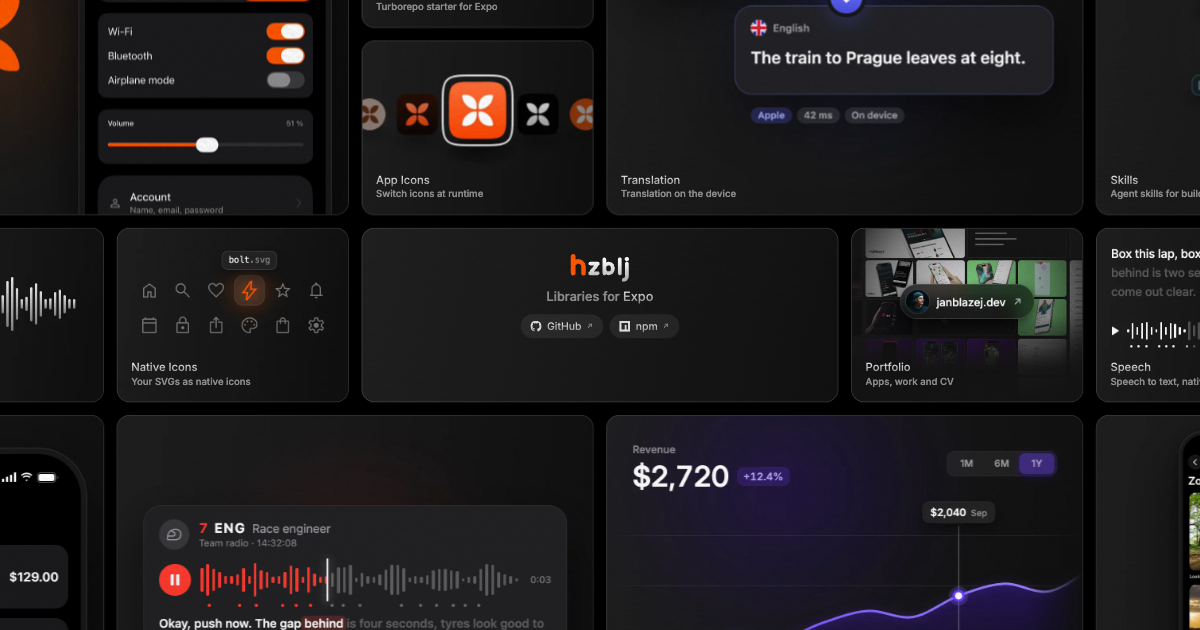
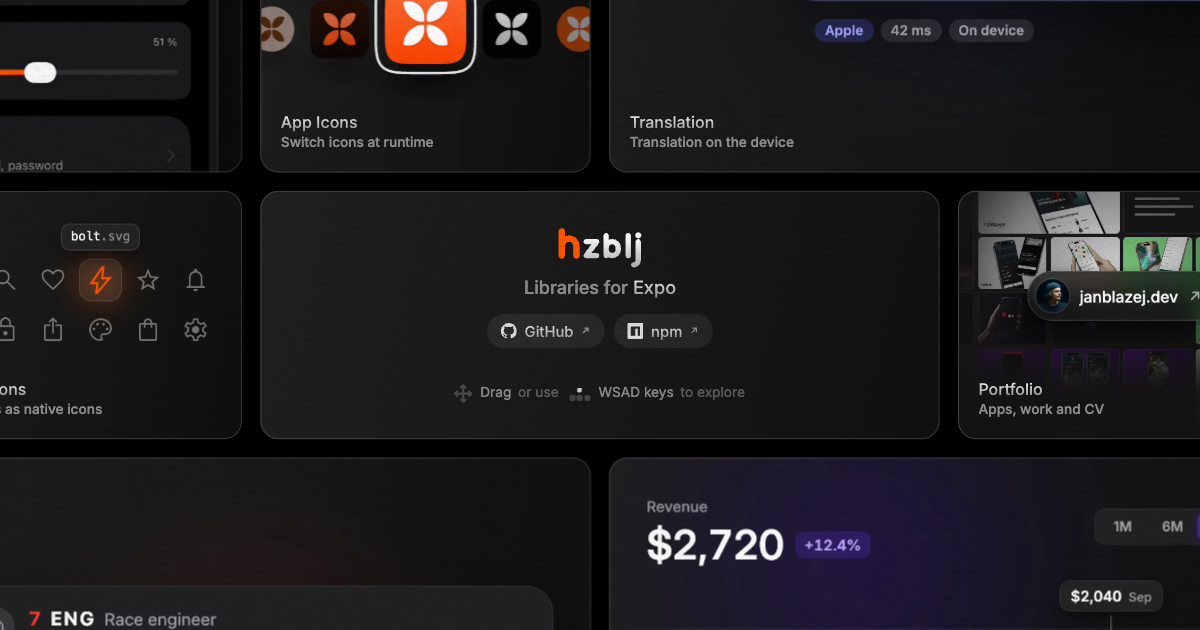
feat: The link preview held close on the profile card, as the portfolio's is, with its drag and WSAD hints

diff --git a/artwork/cards/libraries-grid.js b/artwork/cards/libraries-grid.js
@@ -56,10 +56,24 @@ const ROW = 218
 const GAP = 16
 const PADDING = 2
 
+// The site's hint row (src/scene/cards/profile/styles.ts), still: the keycaps as
+// the loop has them with W pressed.
+const KEYCAPS = [
+  {pressed: true, x: 9.5, y: 4},
+  {x: 3, y: 10.5},
+  {x: 9.5, y: 10.5},
+  {x: 16, y: 10.5},
+]
+  .map(({pressed, x, y}) => `<img class="keycap${pressed ? ' pressed' : ''}" src="/public/svg/key-cap.svg" style="left: ${x}px; top: ${y + 4}px" />`)
+  .join('')
+
+const HINTS = `<span class="arrows"><img src="/public/svg/arrows.svg" /></span><span>Drag</span><span class="muted">or use</span><span class="keyboard">${KEYCAPS}</span><span>WSAD keys</span><span class="muted">to explore</span>`
+
 const PROFILE = `<div class="profile">
   <img class="wordmark" src="/public/svg/wordmark.svg" />
   <div class="tagline">Libraries for <span class="ink">Expo</span></div>
   <div class="links">${['github', 'npm'].map(name => `<span class="pill"><img src="/public/svg/${name}.svg" /><span class="ink">${name === 'github' ? 'GitHub' : name}</span>${ARROW}</span>`).join('')}</div>
+  <div class="hints">${HINTS}</div>
 </div>`
 
 /** Fills `container` with the grid at its own size; returns that size and the profile card's centre. */

diff --git a/artwork/cards/libraries-grid.css b/artwork/cards/libraries-grid.css
@@ -122,6 +122,69 @@
   width: 9px;
 }
 
+.profile .hints {
+  align-items: center;
+  bottom: 30px;
+  color: rgba(255, 255, 255, 0.5);
+  display: flex;
+  font-size: 12px;
+  font-weight: 400;
+  height: 24px;
+  justify-content: center;
+  left: 0;
+  position: absolute;
+  right: 0;
+}
+
+.profile .hints > * {
+  margin-right: 6px;
+}
+
+.profile .hints > :last-child {
+  margin-right: 0;
+}
+
+.profile .hints .muted {
+  color: rgba(255, 255, 255, 0.3);
+}
+
+.profile .hints .arrows,
+.profile .hints .keyboard {
+  height: 24px;
+  position: relative;
+}
+
+.profile .hints .arrows {
+  width: 16px;
+}
+
+.profile .hints .arrows img {
+  border-radius: 0;
+  height: 24px;
+  left: -4px;
+  position: absolute;
+  top: 2px;
+  width: 24px;
+}
+
+.profile .hints .keyboard {
+  margin-right: 4px;
+  width: 25px;
+}
+
+.profile .hints .keycap {
+  border-radius: 0;
+  height: 6px;
+  opacity: 0.2;
+  position: absolute;
+  width: 6px;
+}
+
+.profile .hints .keycap.pressed {
+  opacity: 0.8;
+  transform: scale(0.8);
+}
+
 .examples {
   font-family: Inter, system-ui, sans-serif;
   font-weight: 500;

diff --git a/artwork/cards/og-image.html b/artwork/cards/og-image.html
@@ -27,7 +27,7 @@
     <script type="module">
       import {buildGrid} from './libraries-grid.js'
 
-      const SCALE = 0.8
+      const SCALE = 1.14
       const SIZE = {height: 630, width: 1200}
 
       const grid = document.querySelector('.grid')
